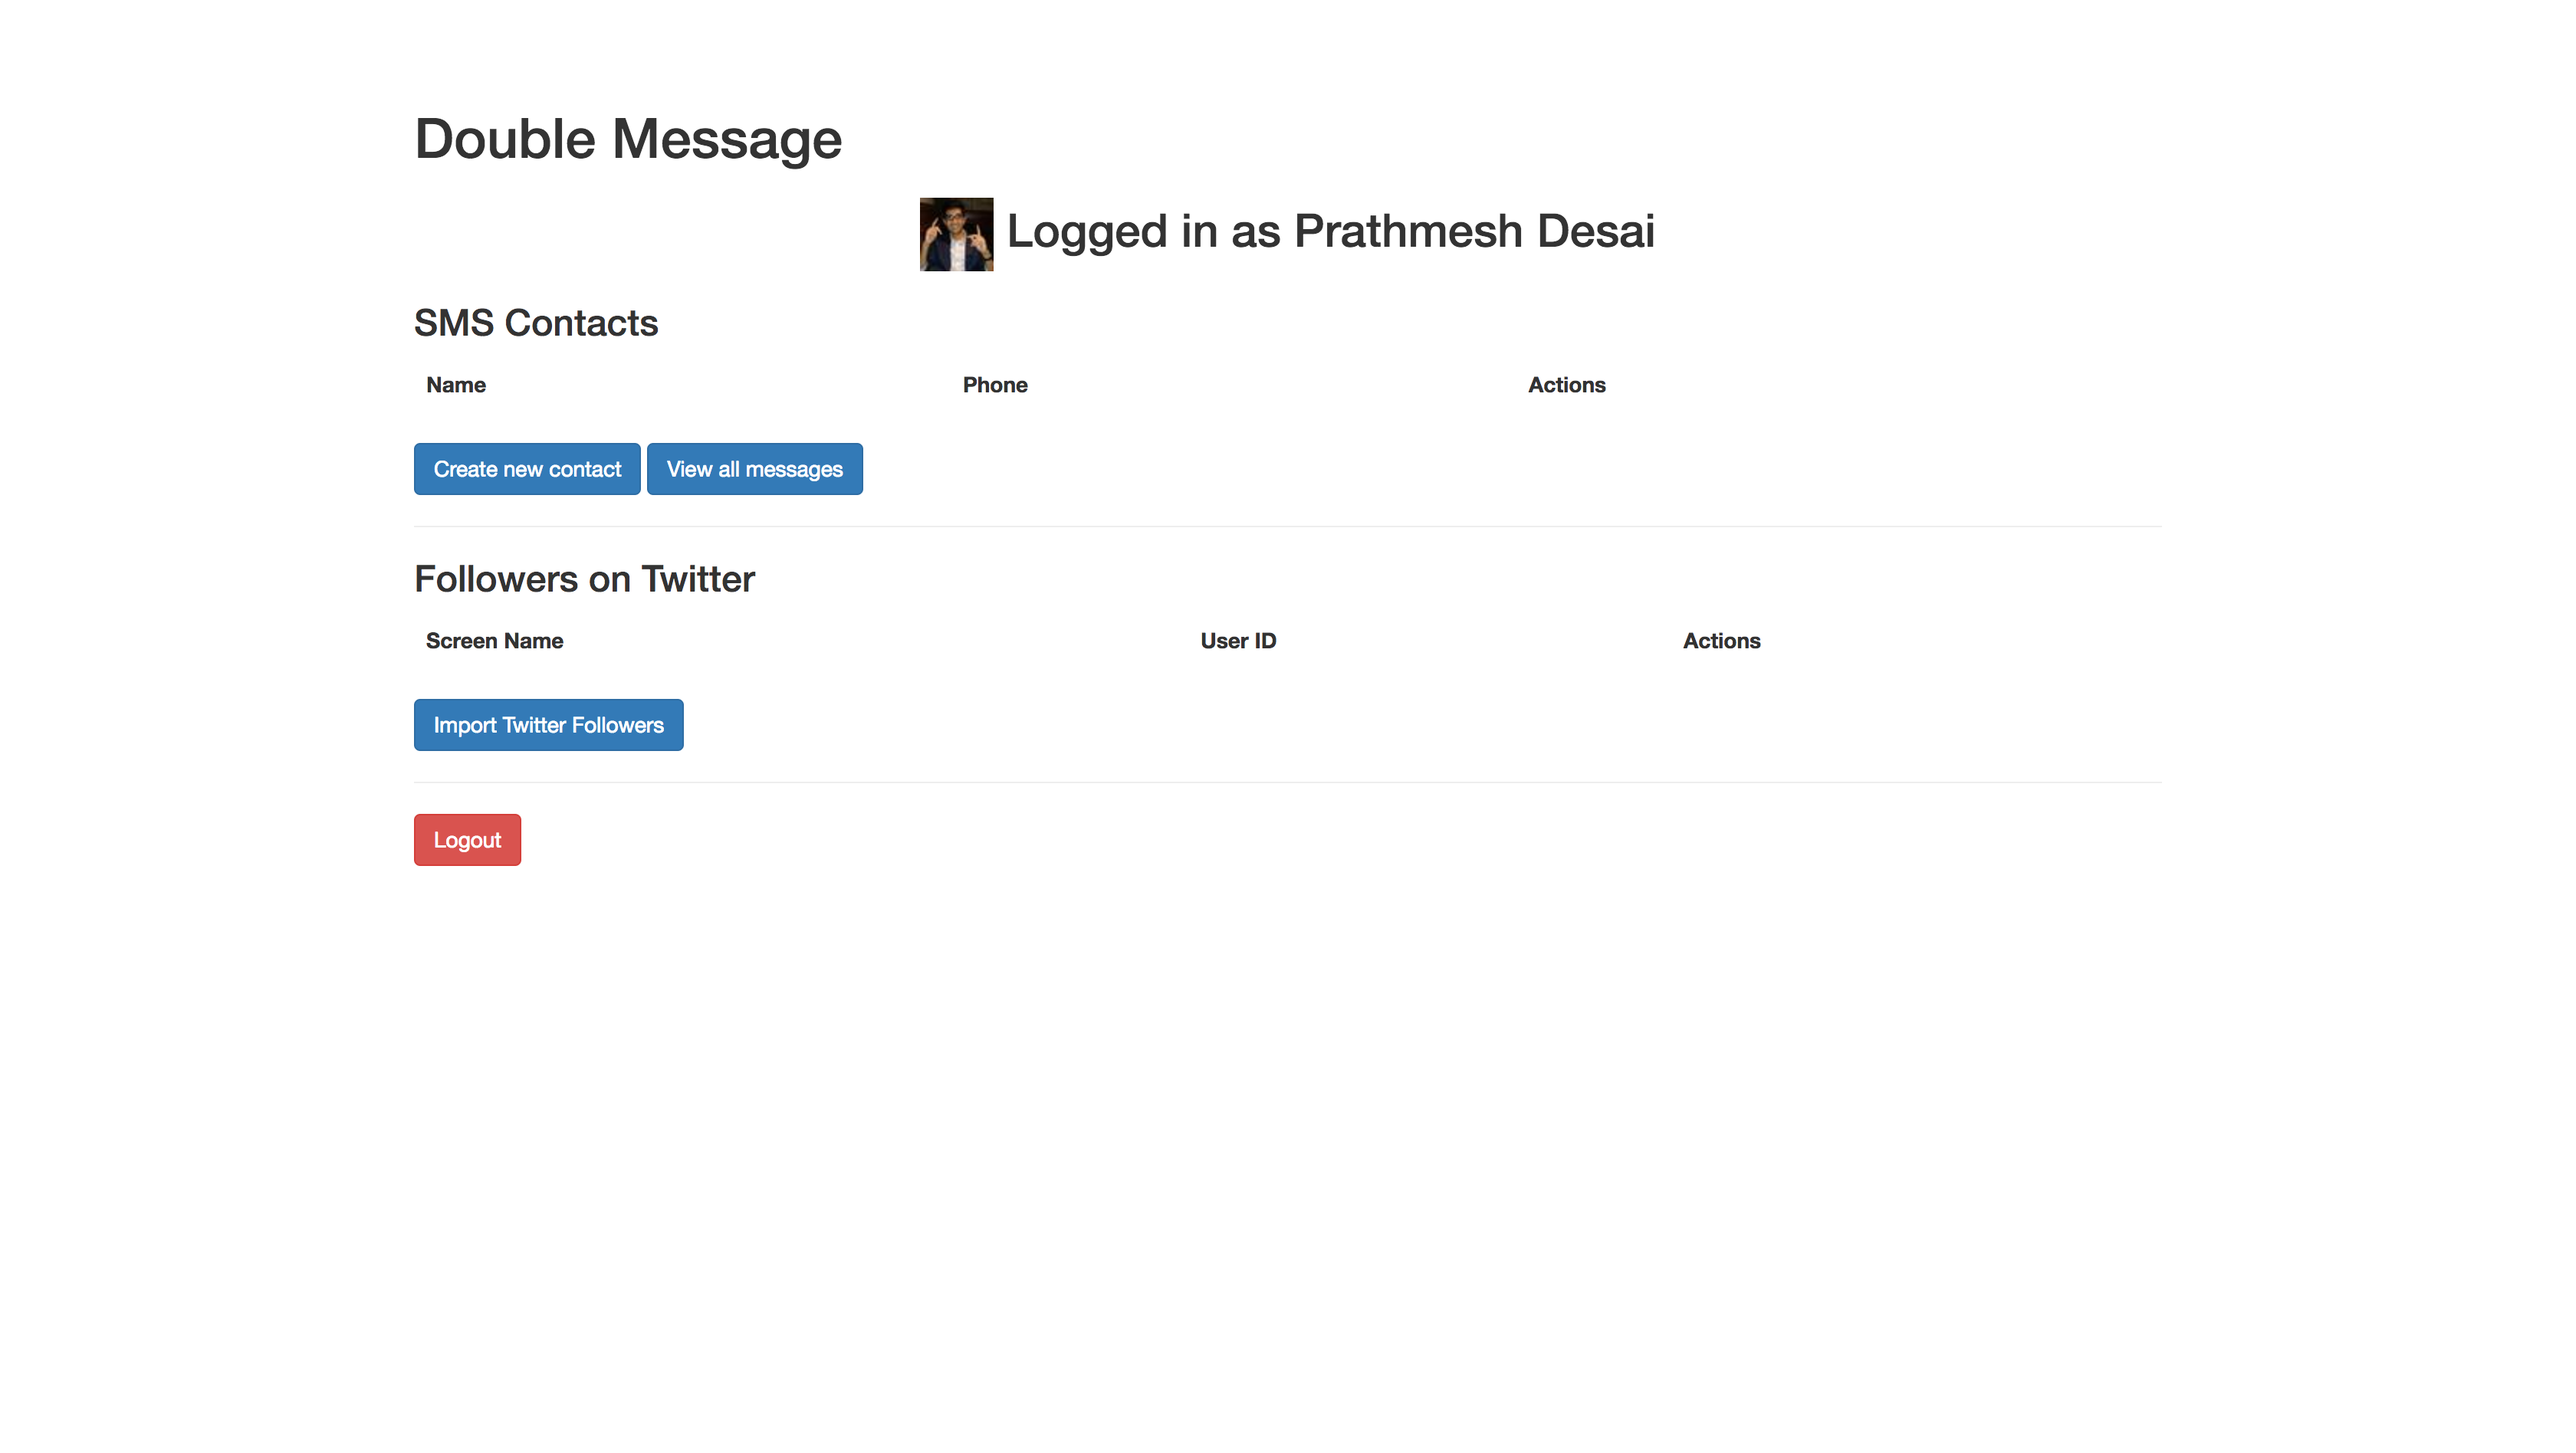
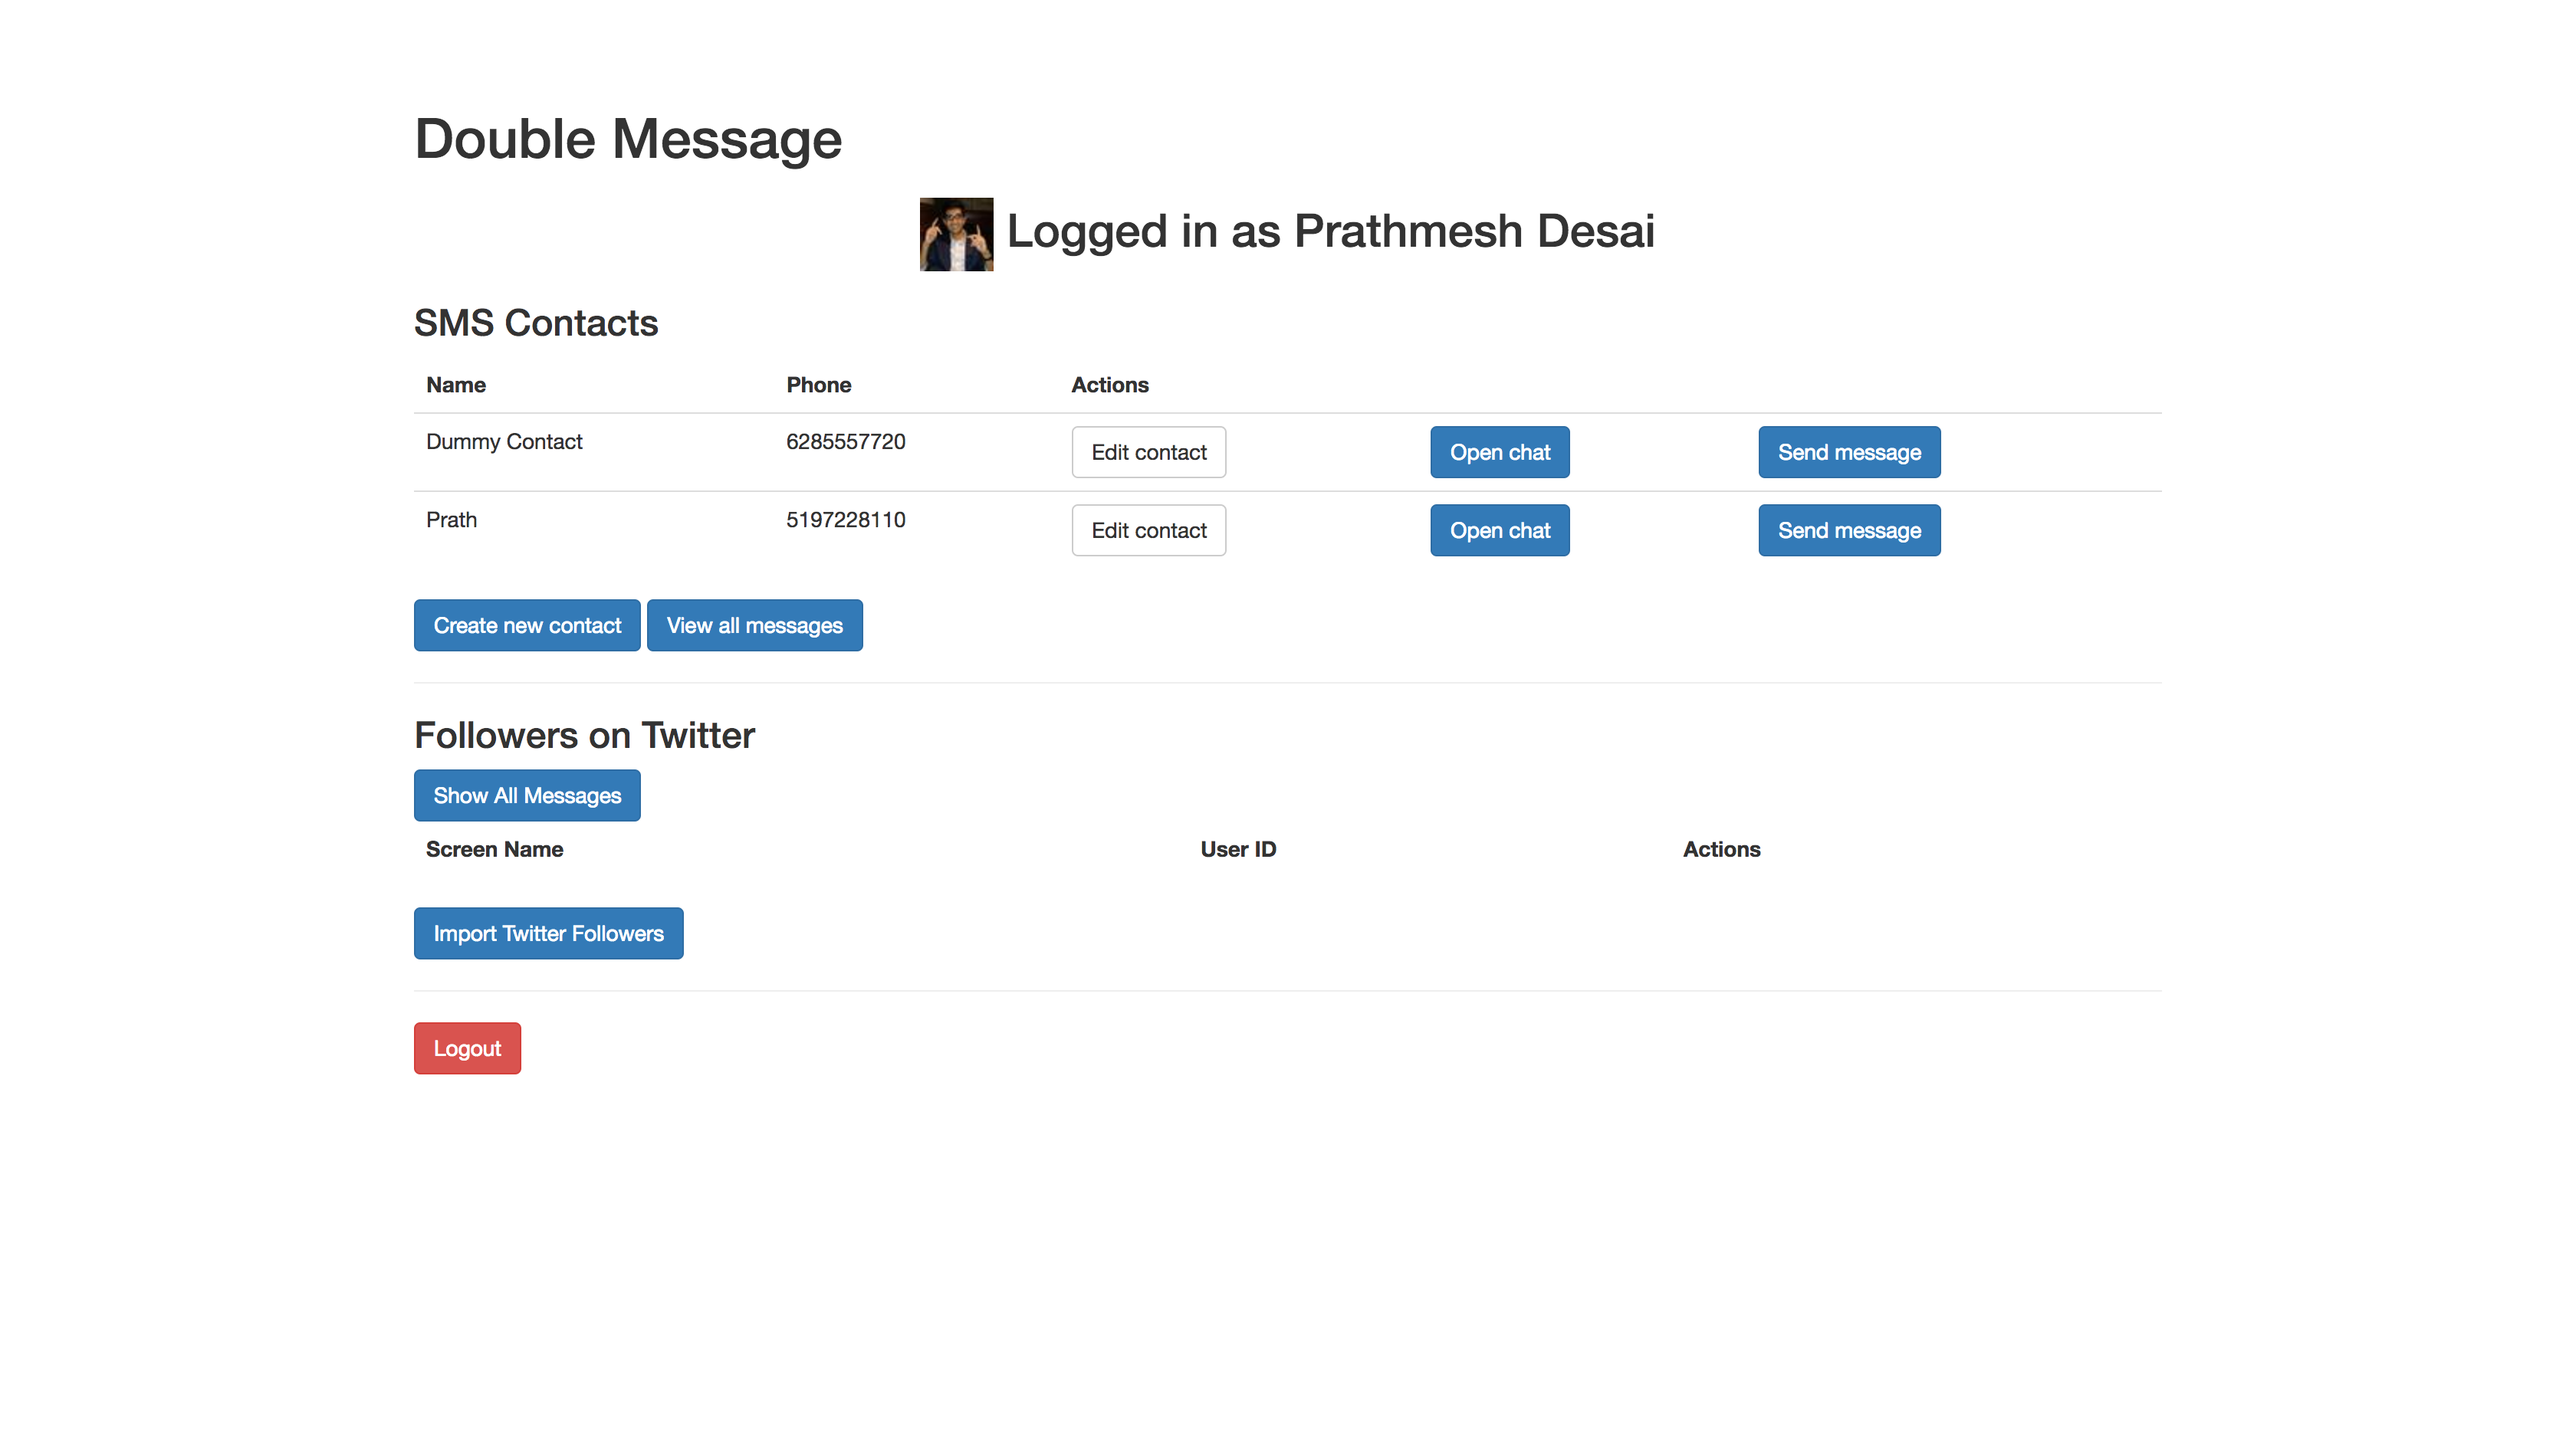
add messaging functionality w/twitter dms

diff --git a/solution/routes/index.js b/solution/routes/index.js
@@ -142,6 +142,19 @@ router.get('/messages/send/:id', function(req, res, next) {
   });
 });
 
+router.get('/twitter/messages/send/:id', function(req, res, next) {
+  User.findOne({twitterId: req.user.twitterId}, function(err, user) {
+    user.followers.forEach((follower) => {
+      if(follower.id_str === req.params.id) {
+        console.log(follower);
+        res.render('newMessage', {
+          contact: follower
+        });
+      }
+    });
+  });
+});
+
 router.post('/messages/send/:id', function(req, res, next) {
   Contact.findById(req.params.id, function(err, contact) {
     if (err) return next(err);
@@ -170,6 +183,18 @@ router.post('/messages/send/:id', function(req, res, next) {
   });
 });
 
+router.post('/twitter/messages/send/:id', function(req, res, next) {
+  var client = new Twitter({
+    consumer_key: process.env.TWITTER_CONSUMER_KEY,
+    consumer_secret: process.env.TWITTER_CONSUMER_SECRET,
+    access_token_key: req.user.twitterToken,
+    access_token_secret: req.user.twitterTokenSecret
+  });
+  client.post('/direct_messages/new', {text: req.body.message, screen_name: req.body.channel}, function(err, response) {
+    res.redirect('/twitter/messages');
+  });
+});
+
 router.get('/twitter/import', function(req, res, next) {
   var client = new Twitter({
     consumer_key: process.env.TWITTER_CONSUMER_KEY,
@@ -182,6 +207,30 @@ router.get('/twitter/import', function(req, res, next) {
     User.findOneAndUpdate({twitterId: req.user.twitterId}, {$set: {followers: response.users}}, {new: true}, function(err, user) {
       if (err) console.log(err);
       res.redirect('/contacts');
+    });
+  });
+});
+
+router.get('/twitter/messages', function(req, res, next) {
+  var client = new Twitter({
+    consumer_key: process.env.TWITTER_CONSUMER_KEY,
+    consumer_secret: process.env.TWITTER_CONSUMER_SECRET,
+    access_token_key: req.user.twitterToken,
+    access_token_secret: req.user.twitterTokenSecret
+  });
+
+  client.get('/direct_messages/sent', function(err, responseSent) {
+    client.get('/direct_messages', function(err, responseReceived) {
+      var dms = [...responseSent, ...responseReceived];
+      dms.sort((a, b) => {
+        if(a.created_at < b.created_at) return 1;
+        else return -1;
+      });
+      
+      res.render('messages', {
+        messages: dms,
+        twitter: true
+      });
     });
   });
 });

diff --git a/readme-part2.md b/readme-part2.md
@@ -10,6 +10,7 @@
 - [Step 8: Create a Twitter App](#step-8-create-a-twitter-app)
 - [Step 9: Twitter OAuth](#step-9-twitter-oauth)
 - [Step 10: Import Twitter Following (Friends)](#step-10-import-twitter-following)
+- [Step 11: Import Twitter Messages](#step-11-import-twitter-messages)
 - [BONUS](#bonus)
 
 ## Goal
@@ -192,7 +193,8 @@ The goal of this step is to implement Twitter OAuth in your Application. You wil
     - Make sure to redirect back to `/contacts` once the follower data has been saved to the model
 
 1. __IF__ the user is logged in using Twitter, add the following to `contacts.hbs` (_example below_):
-    - __Followers on Twitter__ section: should contain Screen Name, User ID, Open Chat Button, and Send Message Button (empty initially)
+    - __Show All Messages__ button: This will show you all direct messages sent & received for your Twitter user
+    - __Followers on Twitter__ section: should contain Screen Name, User ID, and Send Message Button (empty initially)
     - __Import Twitter Followers__ button that links to the `/twitter/import` route
 
 ### Testing
@@ -202,6 +204,33 @@ Now let's see if it works! Log in via. Twitter and import your contacts. Below a
 ![](./images/twitter_empty.png)
 
 ![](./images/twitter_imported.png)
+
+## Step 11: Import Twitter Messages
+
+1. Link the __Show All Messages__ button to `/twitter/messages` in `contacts.hbs`
+1. Create a `GET /twitter/messages` endpoint: This endpoint will use the `twitter` npm module to perform `GET` requests to `/direct_messages` _(all received messages)_ and `/direct_messages/sent` _(all sent messages)_
+    - use `console.log()` to look at what the responses looks like
+    - you need to __combine__ the responses from the two endpoints and sort them by time
+    - render `twitterMessages.hbs` and pass in the combined array of messages
+1. Create a view called `twitterMessages.hbs`
+    - __NOTE__ that you can either create this view or modify the existing `messages.hbs` file to work with Twitter DMs
+
+### Goal
+
+![](./images/twitter_dms.png)
+
+## Step 12: Send Twitter Messages
+
+This is the final step, we're almost done! We will be using the [`POST /direct_messages/new`](https://dev.twitter.com/rest/reference/post/direct_messages/new) endpoint to send DMs to users. Let's see if you can do this step by yourself! We have given you an outline of what you will need to do for this step below:
+
+- Create a `GET /twitter/messages/send/:id` route: Looks for the specified follower given the `id` in params, and renders `newMessage.hbs` for that follower (you will need the screen name)
+- Create a `POST /twitter/messages/send/:id` route: Performs `POST /direct_messages/new` to send the message to the appropriate user (your `POST` must include `screen_name` and `text`)
+
+### Goal
+
+![](./images/twitter_send1)
+
+![](./images/twitter_send2)
 
 ## Bonus
 
